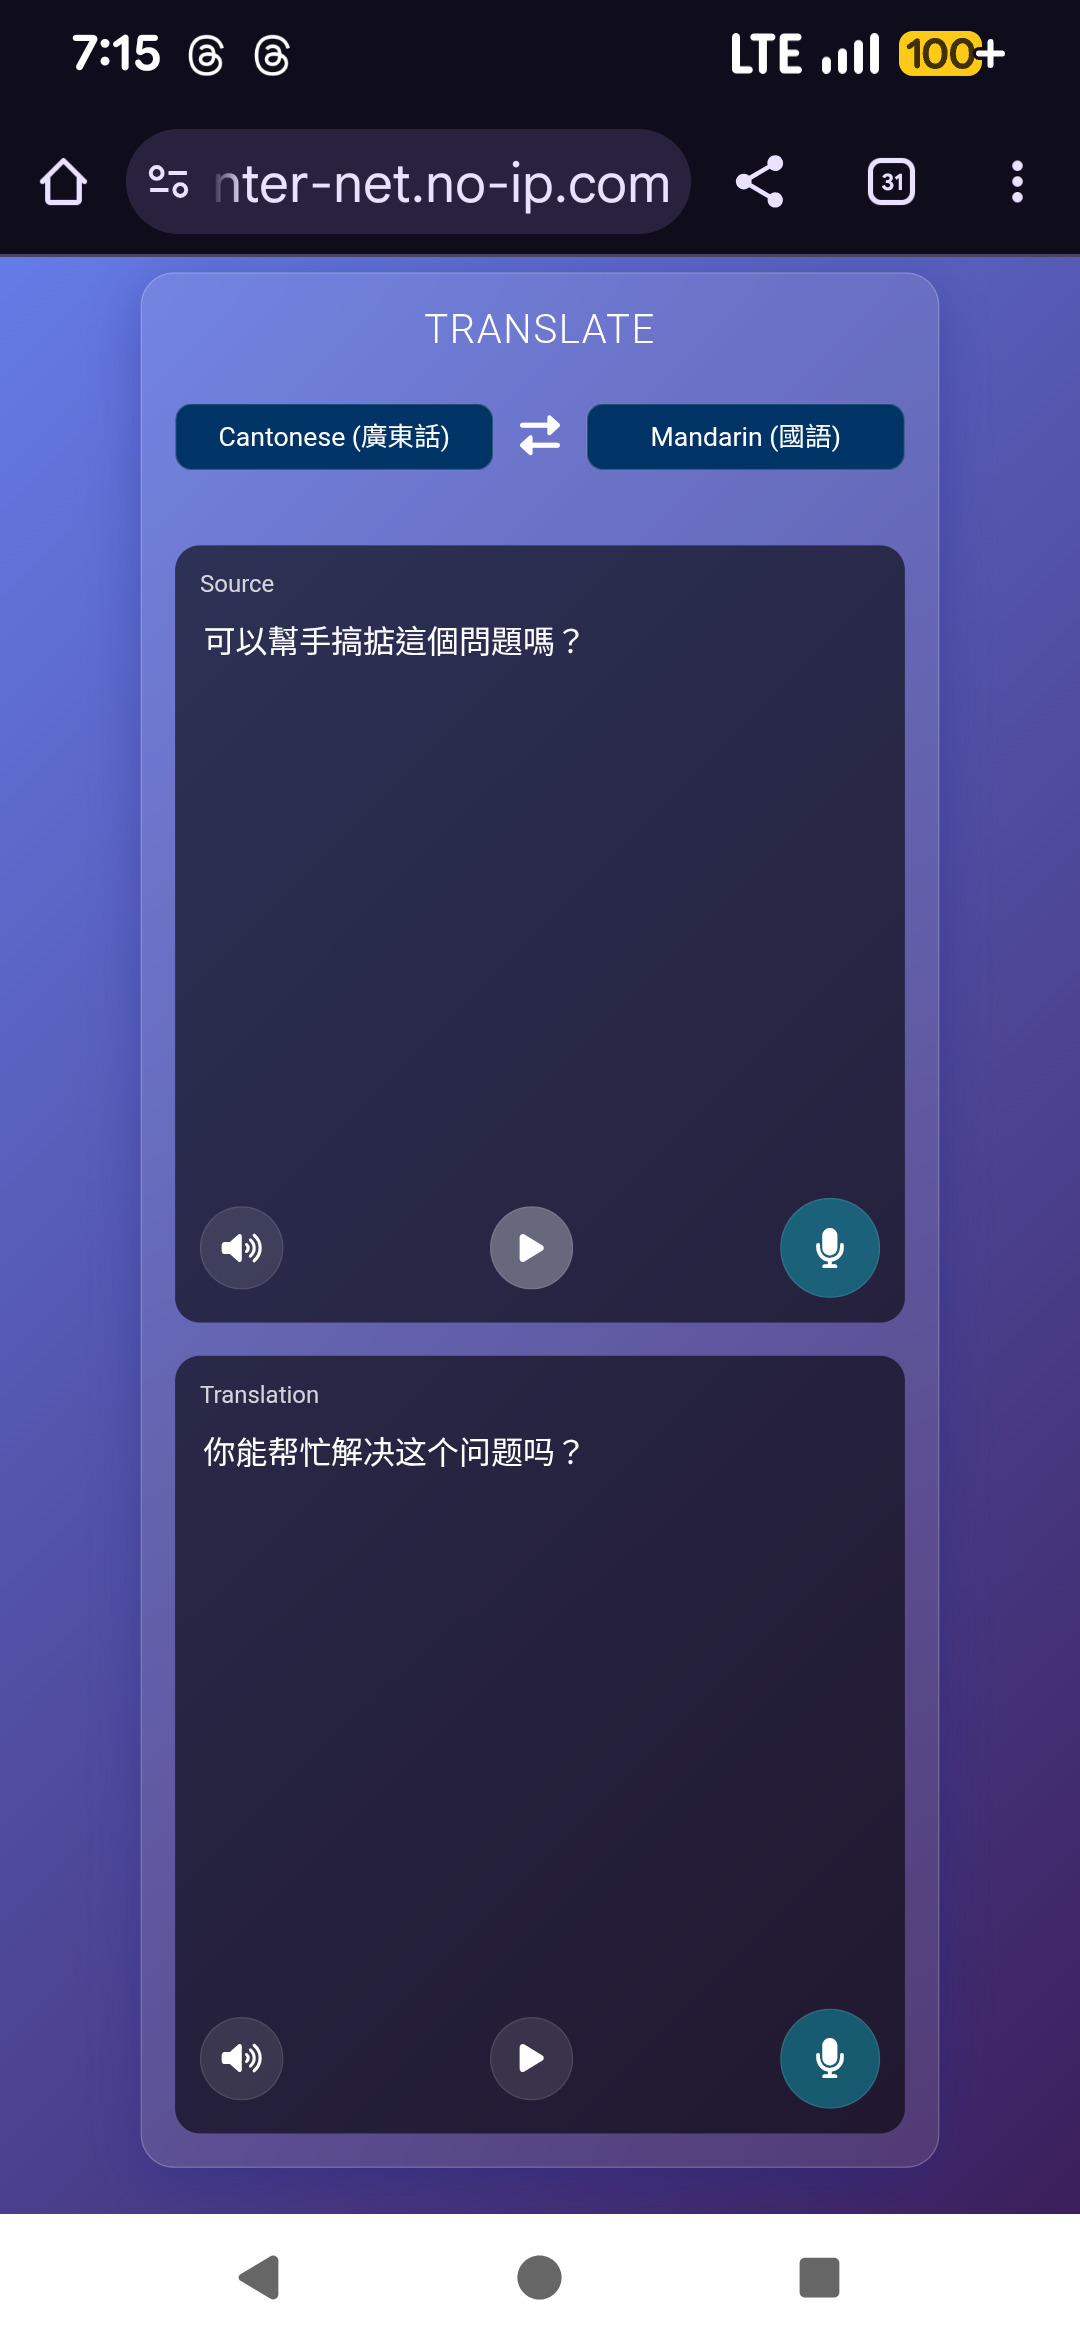
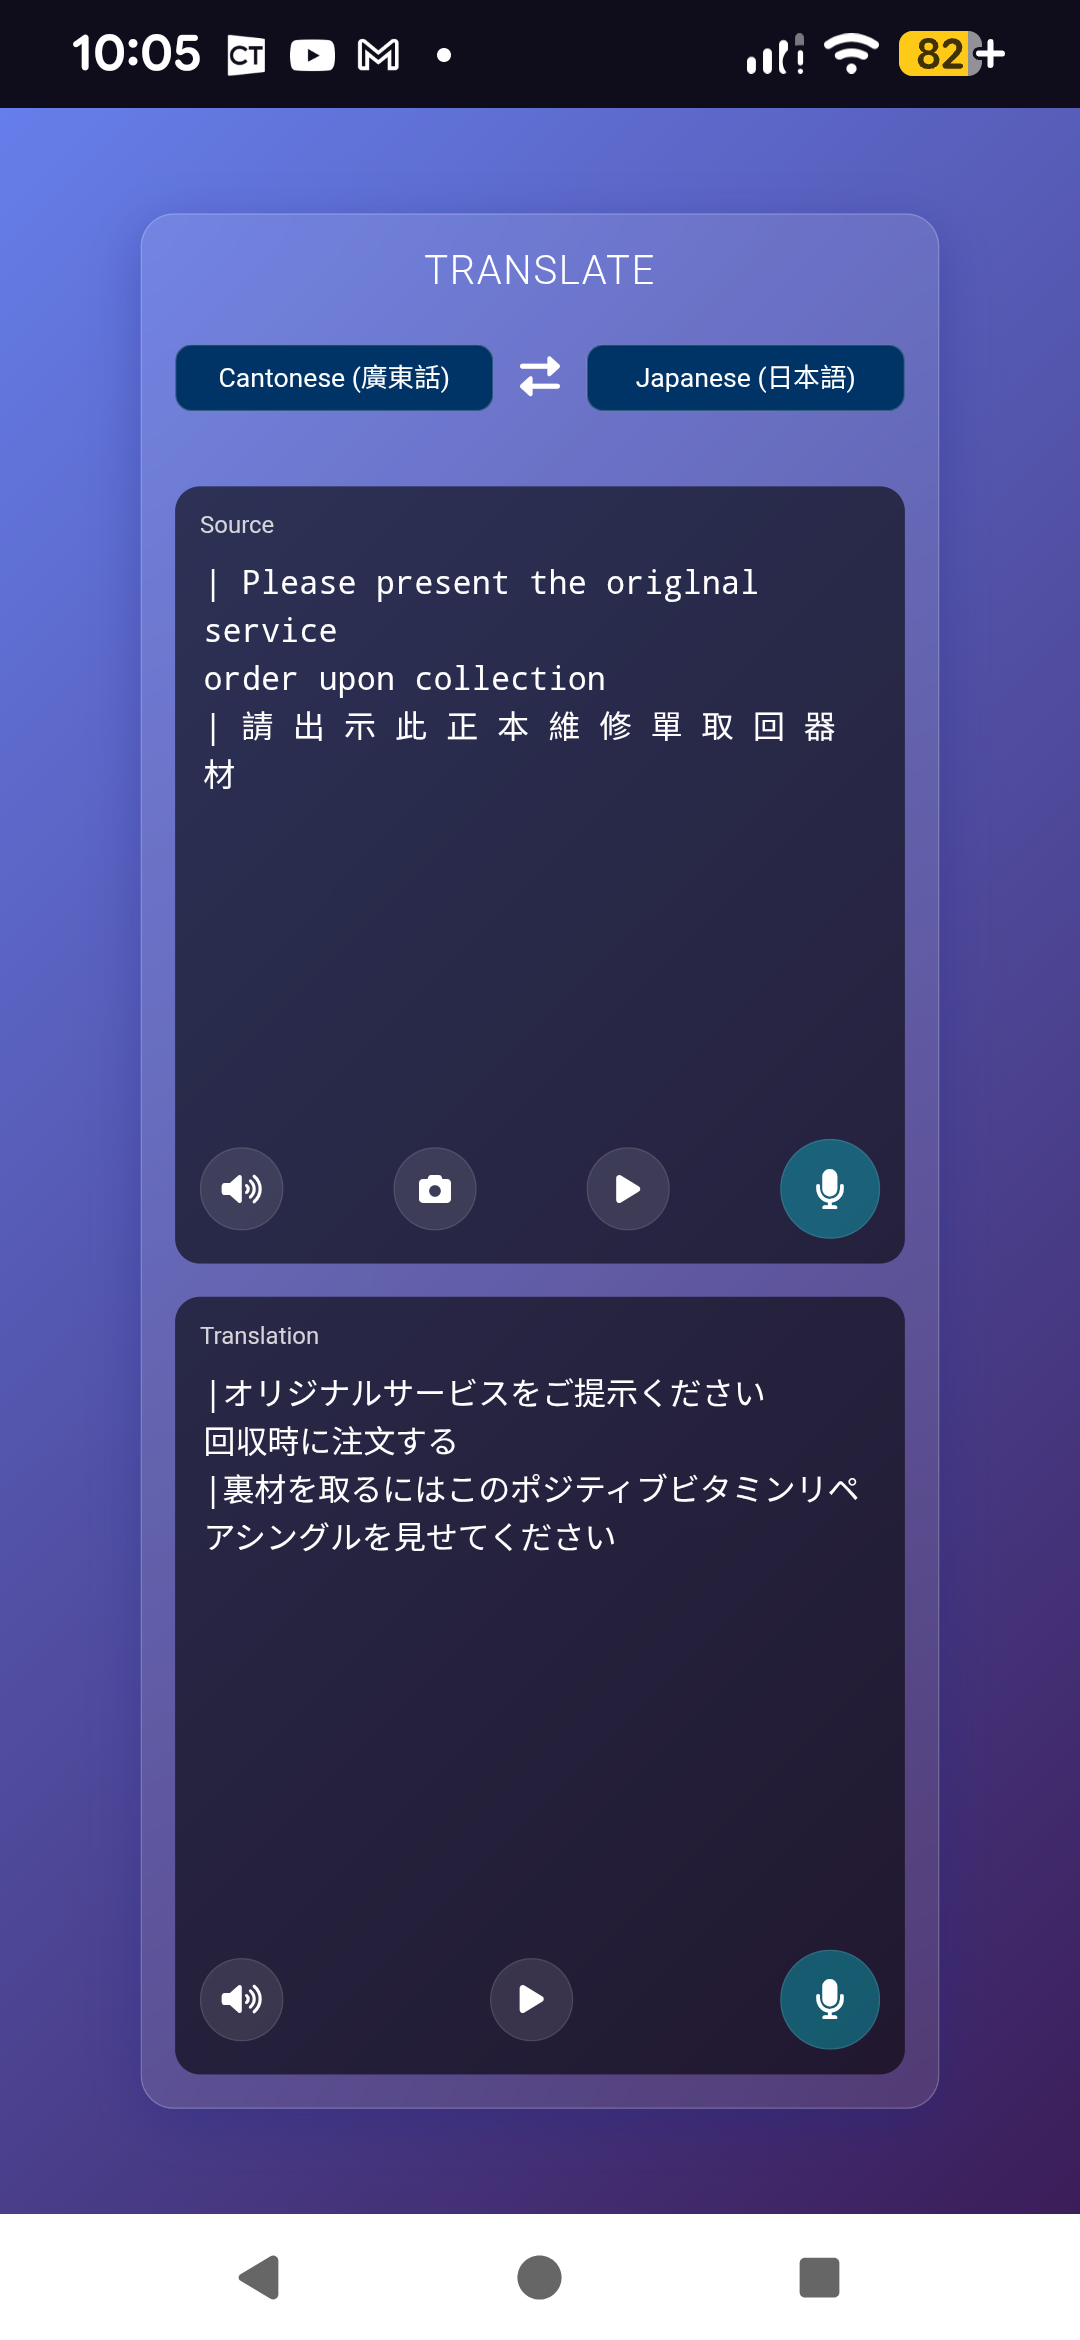
Add files via upload

diff --git a/script.js b/script.js
@@ -5,13 +5,13 @@
 // Mandarin: Speech 'zh-CN', Translate 'zh-CN' (Simplified)
 
 const LANGUAGES = {
-    'yue': { name: 'Cantonese (廣東話)', speech: 'zh-HK', translate: 'yue' },
-    'zh': { name: 'Mandarin (國語)', speech: 'zh-CN', translate: 'zh-CN' },
-    'en': { name: 'English', speech: 'en-US', translate: 'en' },
-    'ja': { name: 'Japanese (日本語)', speech: 'ja-JP', translate: 'ja' },
-    'ko': { name: 'Korean (한국어)', speech: 'ko-KR', translate: 'ko' },
-    'fr': { name: 'French (Français)', speech: 'fr-FR', translate: 'fr' },
-    'de': { name: 'German (Deutsch)', speech: 'de-DE', translate: 'de' }
+    'yue': { name: 'Cantonese (廣東話)', speech: 'zh-HK', translate: 'yue', tesseract_lang: 'chi_tra' },
+    'zh': { name: 'Mandarin (國語)', speech: 'zh-CN', translate: 'zh-CN', tesseract_lang: 'chi_sim' },
+    'en': { name: 'English', speech: 'en-US', translate: 'en', tesseract_lang: 'eng' },
+    'ja': { name: 'Japanese (日本語)', speech: 'ja-JP', translate: 'ja', tesseract_lang: 'jpn' },
+    'ko': { name: 'Korean (한국어)', speech: 'ko-KR', translate: 'ko', tesseract_lang: 'kor' },
+    'fr': { name: 'French (Français)', speech: 'fr-FR', translate: 'fr', tesseract_lang: 'fra' },
+    'de': { name: 'German (Deutsch)', speech: 'de-DE', translate: 'de', tesseract_lang: 'deu' }
 };
 
 // State
@@ -31,7 +31,18 @@ const sourceMic = document.getElementById('source-mic');
 const destMic = document.getElementById('dest-mic');
 const sourceVolume = document.getElementById('source-volume');
 const destVolume = document.getElementById('dest-volume');
+const sourceTransmit = document.getElementById('source-transmit');
+const destTransmit = document.getElementById('dest-transmit');
 const swapBtn = document.getElementById('swap-btn');
+
+// Scanner DOM Elements
+const sourceScan = document.getElementById('source-scan');
+const scannerContainer = document.getElementById('scanner-container');
+const scannerVideo = document.getElementById('scanner-video');
+const scannerCanvas = document.getElementById('scanner-canvas');
+const scannerLoading = document.getElementById('scanner-loading');
+const captureBtn = document.getElementById('capture-btn');
+const closeScannerBtn = document.getElementById('close-scanner-btn');
 
 // Initialization
 function init() {
@@ -74,7 +85,123 @@ function setupEventListeners() {
 
     sourceVolume.addEventListener('click', () => speakText(sourceText.value, state.sourceLang));
     destVolume.addEventListener('click', () => speakText(destText.value, state.destLang));
+
+    sourceTransmit.addEventListener('click', () => translate(sourceText.value, state.sourceLang, state.destLang, 'dest'));
+    destTransmit.addEventListener('click', () => translate(destText.value, state.destLang, state.sourceLang, 'source'));
+    
+    sourceScan.addEventListener('click', startScanning);
+    closeScannerBtn.addEventListener('click', stopScanning);
+    captureBtn.addEventListener('click', captureAndRecognize);
 }
+
+// --- OCR / Camera Functions ---
+let currentStream;
+
+function startScanning() {
+    scannerContainer.style.display = 'flex';
+    scannerLoading.style.display = 'block';
+
+    const constraints = {
+        video: {
+            facingMode: 'environment' // Prefer back camera
+        }
+    };
+
+    navigator.mediaDevices.getUserMedia(constraints)
+        .then(stream => {
+            currentStream = stream;
+            scannerVideo.srcObject = stream;
+            scannerVideo.play().then(() => {
+                scannerLoading.style.display = 'none';
+            });
+        })
+        .catch(err => {
+            console.error("Camera access error:", err);
+            scannerLoading.querySelector('p').innerText = 'Could not access camera. Please ensure permissions are granted.';
+            // Fallback for dev environment
+            navigator.mediaDevices.getUserMedia({ video: true })
+                .then(stream => {
+                    currentStream = stream;
+                    scannerVideo.srcObject = stream;
+                    scannerVideo.play().then(() => {
+                        scannerLoading.style.display = 'none';
+                    });
+                })
+                .catch(err2 => {
+                     console.error("Secondary camera access error:", err2);
+                     scannerLoading.querySelector('p').innerText = 'Could not access any camera.';
+                });
+        });
+}
+
+function stopScanning() {
+    if (currentStream) {
+        currentStream.getTracks().forEach(track => track.stop());
+        currentStream = null;
+    }
+    scannerContainer.style.display = 'none';
+    scannerLoading.style.display = 'block'; // Reset loading message
+    scannerLoading.querySelector('p').innerText = 'Starting Camera...';
+}
+
+async function captureAndRecognize() {
+    if (!currentStream) return;
+    
+    const canvas = scannerCanvas;
+    const video = scannerVideo;
+    const feedback = document.querySelector('.scan-feedback');
+    
+    canvas.width = video.videoWidth;
+    canvas.height = video.videoHeight;
+    canvas.getContext('2d').drawImage(video, 0, 0, video.videoWidth, video.videoHeight);
+
+    feedback.textContent = 'Recognizing text...';
+
+    // 1. Determine OCR language
+    let ocrLang = LANGUAGES[state.sourceLang].tesseract_lang;
+    if (['yue', 'zh'].includes(state.sourceLang)) {
+        ocrLang += '+eng';
+    }
+    
+    try {
+        const result = await Tesseract.recognize(
+            canvas.toDataURL('image/png'),
+            ocrLang, 
+            {
+                logger: m => {
+                    if (m.status === 'recognizing text') {
+                        feedback.textContent = `Recognizing: ${Math.round(m.progress * 100)}%`;
+                    }
+                }
+            }
+        );
+        
+        // 2. Place full, cleaned text in textarea
+        const fullText = result.data.text.replace(/^\s*[\r\n]/gm, '').trim(); // Remove empty lines
+        sourceText.value = fullText;
+        
+        // 3. Extract only Chinese characters for translation
+        const chineseTextOnly = fullText.match(/[\u4e00-\u9fa5]+/g)?.join(' ') || '';
+
+        feedback.textContent = 'Done!';
+        
+        // 4. Auto-translate only the Chinese part
+        if (chineseTextOnly.trim()) {
+            translate(chineseTextOnly, state.sourceLang, state.destLang, 'dest');
+        }
+
+    } catch (err) {
+        console.error('OCR Error:', err);
+        feedback.textContent = 'Could not recognize text.';
+    } finally {
+        // Hide scanner after a short delay
+        setTimeout(() => {
+            stopScanning();
+            feedback.textContent = '';
+        }, 1500);
+    }
+}
+
 
 // Speech Recognition Setup
 let recognition;

diff --git a/index.html b/index.html
@@ -1,5 +1,6 @@
 <!DOCTYPE html>
 <html lang="en">
+
 <head>
     <meta charset="UTF-8">
     <meta name="viewport" content="width=device-width, initial-scale=1.0, maximum-scale=1.0, user-scalable=no">
@@ -8,11 +9,12 @@
     <link href="https://cdnjs.cloudflare.com/ajax/libs/font-awesome/6.0.0/css/all.min.css" rel="stylesheet">
     <link href="https://fonts.googleapis.com/css2?family=Roboto:wght@300;400;500&display=swap" rel="stylesheet">
 </head>
+
 <body>
 
     <div class="app-container">
         <h1>TRANSLATE</h1>
-        
+
         <!-- Source Language Selection -->
         <div class="language-selector">
             <select id="source-select"></select>
@@ -26,6 +28,8 @@
             <textarea id="source-text" placeholder="Speak or type..."></textarea>
             <div class="controls">
                 <button class="icon-btn" id="source-volume"><i class="fas fa-volume-up"></i></button>
+                <button class="icon-btn" id="source-scan"><i class="fas fa-camera"></i></button>
+                <button class="icon-btn" id="source-transmit"><i class="fas fa-play"></i></button>
                 <button class="icon-btn mic-btn" id="source-mic"><i class="fas fa-microphone"></i></button>
             </div>
         </div>
@@ -36,11 +40,31 @@
             <textarea id="dest-text" placeholder="Translation..." readonly></textarea>
             <div class="controls">
                 <button class="icon-btn" id="dest-volume"><i class="fas fa-volume-up"></i></button>
+                <button class="icon-btn" id="dest-transmit"><i class="fas fa-play"></i></button>
                 <button class="icon-btn mic-btn" id="dest-mic"><i class="fas fa-microphone"></i></button>
             </div>
         </div>
     </div>
 
+    <!-- Camera Scanner Modal -->
+    <div id="scanner-container" class="scanner-container" style="display: none;">
+        <video id="scanner-video" autoplay playsinline></video>
+        <canvas id="scanner-canvas" style="display: none;"></canvas>
+        <div class="scanner-ui">
+            <div id="scanner-loading" class="scanner-loading">
+                <p>Starting Camera...</p>
+                <div class="spinner"></div>
+            </div>
+            <div class="scanner-instructions">Align text horizontally for best results</div>
+            <div class="scan-feedback"></div>
+            <button id="capture-btn" class="capture-btn"><i class="fas fa-camera"></i></button>
+            <button id="close-scanner-btn" class="close-scanner-btn">&times;</button>
+        </div>
+    </div>
+
+
+    <script src="https://cdn.jsdelivr.net/npm/tesseract.js@2/dist/tesseract.min.js"></script>
     <script src="script.js"></script>
 </body>
+
 </html>

diff --git a/style.css b/style.css
@@ -168,3 +168,101 @@ textarea::placeholder {
   70% { transform: scale(1.1); box-shadow: 0 0 0 10px rgba(255, 75, 75, 0); }
   100% { transform: scale(1); box-shadow: 0 0 0 0 rgba(255, 75, 75, 0); }
 }
+
+/* Scanner styles */
+.scanner-container {
+    position: fixed;
+    top: 0;
+    left: 0;
+    width: 100%;
+    height: 100%;
+    background-color: #000;
+    z-index: 100;
+    display: flex;
+    justify-content: center;
+    align-items: center;
+}
+
+#scanner-video {
+    width: 100%;
+    height: 100%;
+    object-fit: cover;
+}
+
+.scanner-ui {
+    position: absolute;
+    top: 0;
+    left: 0;
+    width: 100%;
+    height: 100%;
+    display: flex;
+    flex-direction: column;
+    justify-content: space-between;
+    align-items: center;
+    padding: 20px;
+    box-sizing: border-box;
+}
+
+.close-scanner-btn {
+    position: absolute;
+    top: 20px;
+    right: 20px;
+    background: rgba(0, 0, 0, 0.5);
+    color: #fff;
+    border: none;
+    border-radius: 50%;
+    width: 40px;
+    height: 40px;
+    font-size: 24px;
+    line-height: 40px;
+    text-align: center;
+    cursor: pointer;
+}
+
+.capture-btn {
+    background: rgba(255, 255, 255, 0.8);
+    border: none;
+    border-radius: 50%;
+    width: 70px;
+    height: 70px;
+    font-size: 30px;
+    color: #333;
+    cursor: pointer;
+    align-self: center;
+    margin-bottom: 20px;
+}
+
+.scanner-loading {
+    color: #fff;
+    text-align: center;
+}
+
+.scanner-instructions {
+    position: absolute;
+    bottom: 120px;
+    left: 50%;
+    transform: translateX(-50%);
+    background: rgba(0, 0, 0, 0.5);
+    color: #fff;
+    padding: 8px 15px;
+    border-radius: 10px;
+    text-align: center;
+    font-size: 0.9rem;
+    width: 80%;
+    max-width: 300px;
+}
+
+.spinner {
+  border: 4px solid rgba(255, 255, 255, 0.3);
+  border-radius: 50%;
+  border-top: 4px solid #fff;
+  width: 40px;
+  height: 40px;
+  animation: spin 1s linear infinite;
+  margin: 10px auto;
+}
+
+@keyframes spin {
+  0% { transform: rotate(0deg); }
+  100% { transform: rotate(360deg); }
+}

diff --git a/README.md b/README.md
@@ -2,10 +2,16 @@
 
 A beautiful, mobile-first bidirectional translator with a "Liquid Glass" (Glassmorphism) aesthetic. Designed for travel, it supports voice input and text-to-speech for seamless conversation.
 
-![2-way Translator](https://github.com/inchinet/translator/blob/main/translator.png)
+![2-way Translator](https://github.com/inchinet/translator/blob/master/translator.png)
+
 ## Features
 
 - **Liquid Glass UI**: Modern, translucent aesthetics with dynamic gradients.
+- **Image Scanning for Translation**:
+  - Scan text directly from images using your device's back camera.
+  - Recognizes multiple languages (e.g., Cantonese/Mandarin + English) simultaneously.
+  - Automatically extracts text and populates the source text area.
+  - **Tip**: For best results, align the text horizontally in your camera's view.
 - **Bidirectional Voice Translation**:
   - Speak in Source Language -> Translates & Speaks in Destination Language.
   - Speak in Destination Language -> Translates & Speaks in Source Language.
@@ -27,8 +33,9 @@ A beautiful, mobile-first bidirectional translator with a "Liquid Glass" (Glassm
 
 1. **Open the App**: Simply open `index.html` in a modern web browser (Google Chrome is recommended for best Speech API support).
 2. **Select Languages**: Choose your primary language (Source) and the language you want to translate to (Destination).
-3. **Speak**:
+3. **Speak or Scan**:
    - Tap the **Mic Icon** on the *top box* to speak in the Source language.
+   - Tap the **Camera Icon** next to the mic to scan text from an image.
    - Tap the **Mic Icon** on the *bottom box* to speak in the Destination language (for the other person).
 4. **Listen**: The translation will be read out loud automatically. You can also tap the **Speaker Icon** to replay it.
 
@@ -47,7 +54,3 @@ MIT
 ## Repository
 
 [https://github.com/inchinet/translator](https://github.com/inchinet/translator)
-
-
-
-
